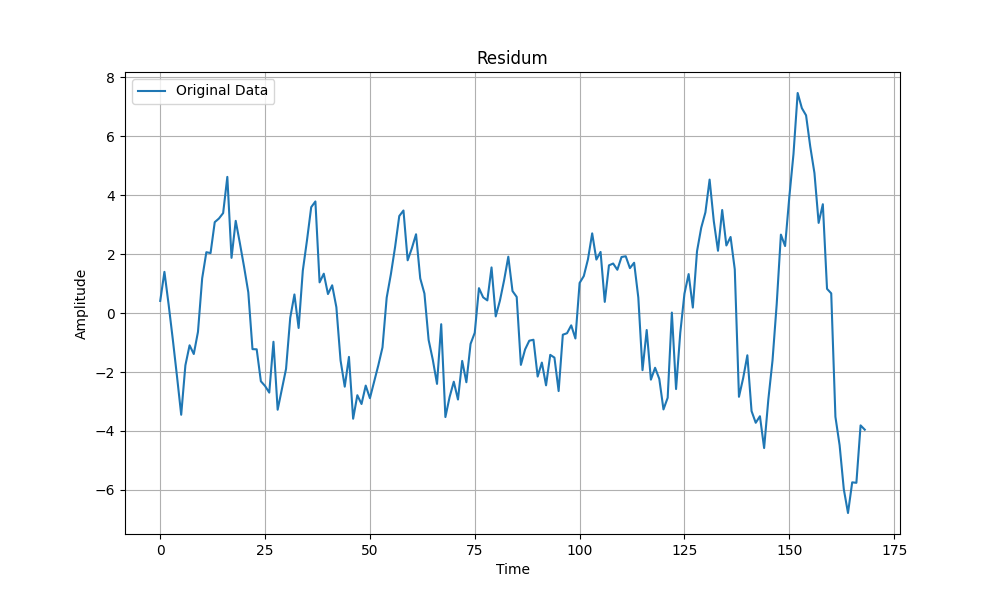
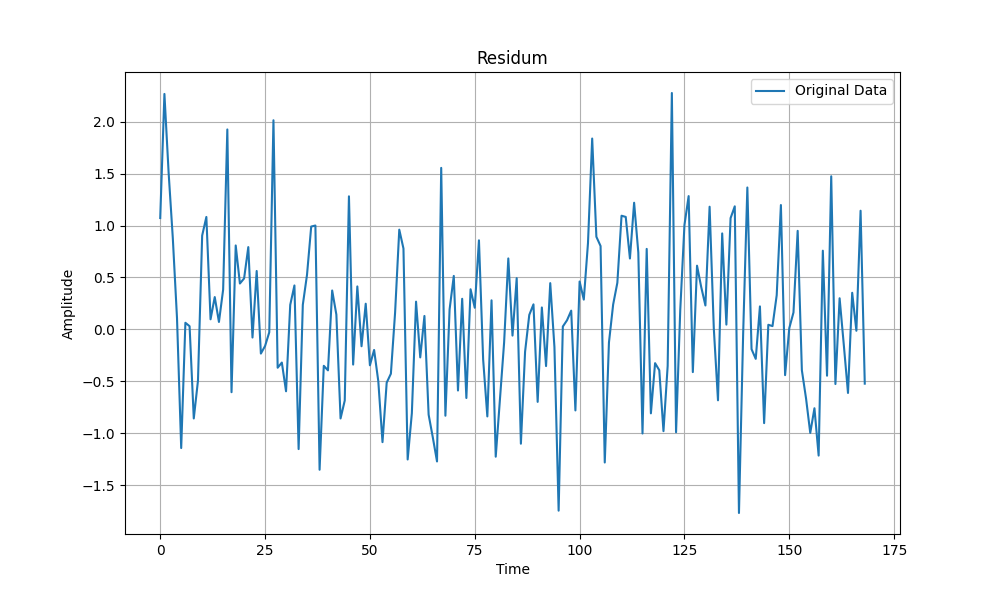
wip

diff --git a/main.py b/main.py
@@ -2,10 +2,13 @@ import numpy as np
 import matplotlib.pyplot as plt
 import csv
 from scipy.optimize import curve_fit
+from analize import analizer
+
 
 # Define the sinusoidal function
 def sinusoidal_function(t, amplitude, frequency, phase):
     return amplitude * np.cos(2 * np.pi * frequency * t + phase)
+
 
 # Replace 'your_file.csv' with the path to your CSV file
 
@@ -17,14 +20,24 @@ def read_csv_file(file_path):
     return table
 
 
+def gauss(x, sigma, mi):
+    return (1 / (sigma * np.sqrt(2 * np.pi))) * np.exp(-0.5 * ((x - mi) / sigma) ** 2)
+
+
 def resolvData(data):
     return [np.argmax(data[i, :]) for i in range(data.shape[0])]
 
+def resolvDataN(data):
+    d = []
+    for i in range(data.shape[0]):
+        f, rez = analizer(data[i, :], gauss, (1, np.argmax(data[i, :]))).fit()
+        d.append(rez[1])
+    return d
 
 def plotMaxFromFile(data):
     for i in range(data.shape[0]):
         plt.plot(i, np.argmax(data[i, :]), marker='.', color='b')
-
+    plt.show()
 
 def model_function(x, a, b, c, e):
     return a * np.sin(b * x) + c * np.cos(b * x) + e
@@ -79,86 +92,8 @@ if __name__ == "__main__":
     file_paths = [rf"Data\Norm_map_zwobble_{i}_detectorSum_ROI_Cr.csv" for i in range(1, 7, 1)]
     colors = ["b", "r", "g", "y", "m", "k"]
 
-    data = read_csv_file(file_paths[0])
-    # Convert the data to a NumPy array
-    data_array = np.array(data, dtype=float)
-
-    dane = np.zeros(data_array.shape[0])
-
-    for file_path, color in zip(file_paths, colors):
-
-        data = read_csv_file(file_path)
-        # Convert the data to a NumPy array
-        data_array = np.array(data, dtype=float)
-
-        # for i in range(data_array.shape[0]):
-        #    plt.plot(i, np.argmax(data_array[i, :]), marker='.', color=color)
-        # plt.plot([np.argmax(data_array[i, :]) for i in range(data_array.shape[0])], color=color)
-        for i, (d, r) in enumerate(zip(dane, [np.argmax(data_array[i, :]) for i in range(data_array.shape[0])])):
-            dane[i] = d + r
-
-    dane = np.asarray(dane)
-    np.multiply(dane, 1.0 / 6.0)
-    plt.plot(dane)
-
-    plt.savefig("3.png")
-
-    time_values = range(len(dane))  # Time values
-    amplitude_values = dane  # Example signal
-
-    # Perform FFT
-    fft_result = np.fft.fft(amplitude_values)
-
-    # Compute the frequencies
-    sampling_frequency = 1 / (time_values[1] - time_values[0])  # Sampling frequency
-    frequencies = np.fft.fftfreq(len(amplitude_values), d=1 / sampling_frequency)
-
-    # Find index of maximum amplitude in FFT result (excluding DC component at index 0)
-    max_index = np.argmax(np.abs(fft_result[1:])) + 1
-
-    # Initial guesses for fitting parameters
-    initial_amplitude_guess = np.abs(fft_result[max_index]) / len(amplitude_values)
-    initial_frequency_guess = frequencies[max_index]
-    initial_phase_guess = np.angle(fft_result[max_index])
+    plotImshow(np.array(read_csv_file(file_paths[0]), dtype=float))
+    plt.show()
 
 
-    # Perform curve fitting
-    popt, pcov = curve_fit(sinusoidal_function, time_values, amplitude_values,
-                           p0=[initial_amplitude_guess, initial_frequency_guess, initial_phase_guess])
 
-    # Extract fitted parameters
-    fitted_amplitude, fitted_frequency, fitted_phase = popt
-
-    print(
-        f"{file_path}:\nfitted_amplitude:{fitted_amplitude} \nfitted_frequency:{fitted_frequency} \nfitted_phase:{fitted_phase}")
-
-    # Generate fitted sinusoidal function
-    fitted_function = sinusoidal_function(time_values, fitted_amplitude, fitted_frequency, fitted_phase)
-
-    lam = lambda x, a, b, c, f=fitted_function: fitted_function[x] + a * x + b + c * x * x
-
-    popt, pcov = curve_fit(lam, time_values, amplitude_values, p0=[0, 0, 0])
-
-    # Generate fitted sinusoidal function
-    fitted_function = lam(time_values, *popt)
-    print(
-        f"wspulczynikKierunkowy:{popt[0]} \noffset:{popt[1]} \nwspulczynikKwadratowy:{popt[2]}")
-
-    # Plot original data and fitted function
-    plt.figure(figsize=(10, 6))
-    plt.plot(time_values, amplitude_values, label='Original Data')
-    plt.plot(time_values, fitted_function, label='Fitted Sinusoidal Function', linestyle='--')
-    plt.xlabel('Time')
-    plt.ylabel('Amplitude')
-    plt.title('Original Data and Fitted Sinusoidal Function')
-    plt.legend()
-    plt.grid()
-    # plt.show()
-    plt.savefig(r"new.png")
-    plt.close()
-    plt.cla()
-    plt.clf()
-# plt.show()
-
-
-#    fiting(data_array)

diff --git a/mainNew.py b/mainNew.py
@@ -2,6 +2,7 @@ import numpy as np
 import matplotlib.pyplot as plt
 from scipy.optimize import curve_fit
 
+from Ploter import ploter
 from analize import analizer
 from furier import resolveFurier
 from main import resolvData, read_csv_file
@@ -25,34 +26,31 @@ for file_path in file_paths:
 
     time_values = range(len(amplitude_values))  # Time values
 
-    a,b,c = resolveFurier(amplitude_values).fff()
+    a, b, c = resolveFurier(amplitude_values).fff()
 
-
-
-    fitted_function, popt = analizer(amplitude_values, cosuidal_function, [10,b, c]).fit()
-
-    fft_result = resolveFurier(fitted_function-amplitude_values).fff()
-
-    fitted_function, popt = analizer(amplitude_values, lambda x, amplitude, frequency, phase, f=fitted_function: f[x] + cosuidal_function(x, amplitude, frequency, phase), [*fft_result]).fit()
-
-    # fitted_function, popt = analizer(amplitude_values,
-    #                                 lambda t, amplitude, frequency, phase, f=fitted_function : f[t] + sinusoidal_function(t, amplitude, frequency, phase),
-    #                                 [np.abs(fft_result[max_index]) / len(amplitude_values), frequencies[max_index],
-    #                                  np.angle(fft_result[max_index])]).fit()
+    fitted_function, popt = analizer(amplitude_values, cosuidal_function, [a, b, c]).fit()
 
     fitted_amplitude, fitted_frequency, fitted_phase = popt
+
+    fitted_function, _ = analizer(amplitude_values,
+                                  lambda x, a, b, f=fitted_function: f[x] + a * x + b,
+                                  [0, 0]).fit()
 
     fitted_function, popt = analizer(amplitude_values,
                                      lambda x, A, B, C, f=fitted_function: f[x] * (A * x * x + B * x + C),
                                      [0, 0, fitted_amplitude]).fit()
 
-    fitted_function, _ = analizer(amplitude_values,
-                                  lambda x, a, b, c, f=fitted_function: f[x] + a * x + b + c * x * x,
-                                  [0, 0, 0]).fit()
+    for _ in range(5):
+        fft_result = resolveFurier(fitted_function - amplitude_values).fff()
 
-    #fft_result = resolveFurier(fitted_function-amplitude_values).fff()
+        fitted_function, popt = analizer(amplitude_values,
+                                         lambda x, amplitude, frequency, phase, f=fitted_function: f[x]
+                                                                                                   + cosuidal_function(
+                                             x, amplitude, frequency, phase), [*fft_result]).fit()
 
-    #fitted_function, popt = analizer(amplitude_values, lambda x, amplitude, frequency, phase, f=fitted_function: f[x] + cosuidal_function(x, amplitude, frequency, phase), [*fft_result]).fit()
+    # fitted_function, popt = analizer(amplitude_values,
+    #                                 lambda x, A, B, C, f=fitted_function: f[x] * (A * x * x + B * x + C),
+    #                                  [0, 0, fitted_amplitude]).fit()
 
     # Plot original data and fitted function
     plt.figure(figsize=(10, 6))
@@ -70,7 +68,7 @@ for file_path in file_paths:
     plt.clf()
 
     plt.figure(figsize=(10, 6))
-    plt.plot(time_values, amplitude_values-fitted_function, label='Original Data')
+    plt.plot(time_values, amplitude_values - fitted_function, label='Original Data')
     plt.xlabel('Time')
     plt.ylabel('Amplitude')
     plt.title('Residum')
@@ -82,3 +80,4 @@ for file_path in file_paths:
     plt.cla()
     plt.clf()
 
+    print("end data")

diff --git a/old.py b/old.py
@@ -1,0 +1,90 @@
+import numpy as np
+from matplotlib import pyplot as plt
+from scipy.optimize import curve_fit
+
+from main import read_csv_file, sinusoidal_function
+
+file_paths = [rf"Data\Norm_map_zwobble_{i}_detectorSum_ROI_Cr.csv" for i in range(1, 7, 1)]
+colors = ["b", "r", "g", "y", "m", "k"]
+
+data = read_csv_file(file_paths[0])
+# Convert the data to a NumPy array
+data_array = np.array(data, dtype=float)
+
+dane = np.zeros(data_array.shape[0])
+for file_path, color in zip(file_paths, colors):
+
+    data = read_csv_file(file_path)
+    # Convert the data to a NumPy array
+    data_array = np.array(data, dtype=float)
+
+    # for i in range(data_array.shape[0]):
+    #    plt.plot(i, np.argmax(data_array[i, :]), marker='.', color=color)
+    # plt.plot([np.argmax(data_array[i, :]) for i in range(data_array.shape[0])], color=color)
+    for i, (d, r) in enumerate(zip(dane, [np.argmax(data_array[i, :]) for i in range(data_array.shape[0])])):
+        dane[i] = d + r
+
+dane = np.asarray(dane)
+np.multiply(dane, 1.0 / 6.0)
+plt.plot(dane)
+
+plt.savefig("3.png")
+
+time_values = range(len(dane))  # Time values
+amplitude_values = dane  # Example signal
+
+# Perform FFT
+fft_result = np.fft.fft(amplitude_values)
+
+# Compute the frequencies
+sampling_frequency = 1 / (time_values[1] - time_values[0])  # Sampling frequency
+frequencies = np.fft.fftfreq(len(amplitude_values), d=1 / sampling_frequency)
+
+# Find index of maximum amplitude in FFT result (excluding DC component at index 0)
+max_index = np.argmax(np.abs(fft_result[1:])) + 1
+
+# Initial guesses for fitting parameters
+initial_amplitude_guess = np.abs(fft_result[max_index]) / len(amplitude_values)
+initial_frequency_guess = frequencies[max_index]
+initial_phase_guess = np.angle(fft_result[max_index])
+
+# Perform curve fitting
+popt, pcov = curve_fit(sinusoidal_function, time_values, amplitude_values,
+                       p0=[initial_amplitude_guess, initial_frequency_guess, initial_phase_guess])
+
+# Extract fitted parameters
+fitted_amplitude, fitted_frequency, fitted_phase = popt
+
+print(
+    f"{file_path}:\nfitted_amplitude:{fitted_amplitude} \nfitted_frequency:{fitted_frequency} \nfitted_phase:{fitted_phase}")
+
+# Generate fitted sinusoidal function
+fitted_function = sinusoidal_function(time_values, fitted_amplitude, fitted_frequency, fitted_phase)
+
+lam = lambda x, a, b, c, f=fitted_function: fitted_function[x] + a * x + b + c * x * x
+
+popt, pcov = curve_fit(lam, time_values, amplitude_values, p0=[0, 0, 0])
+
+# Generate fitted sinusoidal function
+fitted_function = lam(time_values, *popt)
+print(
+    f"wspulczynikKierunkowy:{popt[0]} \noffset:{popt[1]} \nwspulczynikKwadratowy:{popt[2]}")
+
+# Plot original data and fitted function
+plt.figure(figsize=(10, 6))
+plt.plot(time_values, amplitude_values, label='Original Data')
+plt.plot(time_values, fitted_function, label='Fitted Sinusoidal Function', linestyle='--')
+plt.xlabel('Time')
+plt.ylabel('Amplitude')
+plt.title('Original Data and Fitted Sinusoidal Function')
+plt.legend()
+plt.grid()
+# plt.show()
+plt.savefig(r"new.png")
+plt.close()
+plt.cla()
+plt.clf()
+# plt.show()
+
+
+#    fiting(data_array)

diff --git a/Ploter.py b/Ploter.py
@@ -1,0 +1,33 @@
+from matplotlib import pyplot as plt
+
+
+class ploter:
+
+    def __init__(self, data: tuple):
+        self.data = data
+        self.time_values = range(len(data[0][0]))
+
+    def plot(self, file=None, title=""):
+        plt.figure(figsize=(10, 6))
+        for d in self.data[0]:
+            plt.plot(self.time_values, d[0])
+
+        plt.title(title)
+        plt.legend()
+        plt.grid()
+
+        if file:
+            plt.savefig(file)
+
+        plt.close()
+        plt.cla()
+        plt.clf()
+
+
+if __name__ == "__main__":
+    forPloting = ((amplitude_values, {"label": 'Original Data'}),
+                  (fitted_function, {"label": 'Fitted Sinusoidal Function', "linestyle": '--'}))
+
+    ploter(forPloting).plot(file_path + r".png")
+
+    ploter(((amplitude_values - fitted_function,), {"label": "residum"})).plot(file_path + r"residum.png")

diff --git a/analize.py b/analize.py
@@ -1,3 +1,4 @@
+import numpy as np
 from scipy.optimize import curve_fit
 
 
@@ -11,6 +12,10 @@ class analizer:
         self.time_values = range(len(data))
 
     def fit(self):
-        popt, pcov = curve_fit(self.function, self.time_values, self.data, p0=self.initialGuess)
-        print(popt)
+        try:
+            popt, pcov = curve_fit(self.function, self.time_values, self.data, p0=self.initialGuess)
+            print(popt)
+        except RuntimeError as e:
+            print(e)
+            return None, [0, np.argmax(self.data)]
         return self.function(self.time_values, *popt), popt
